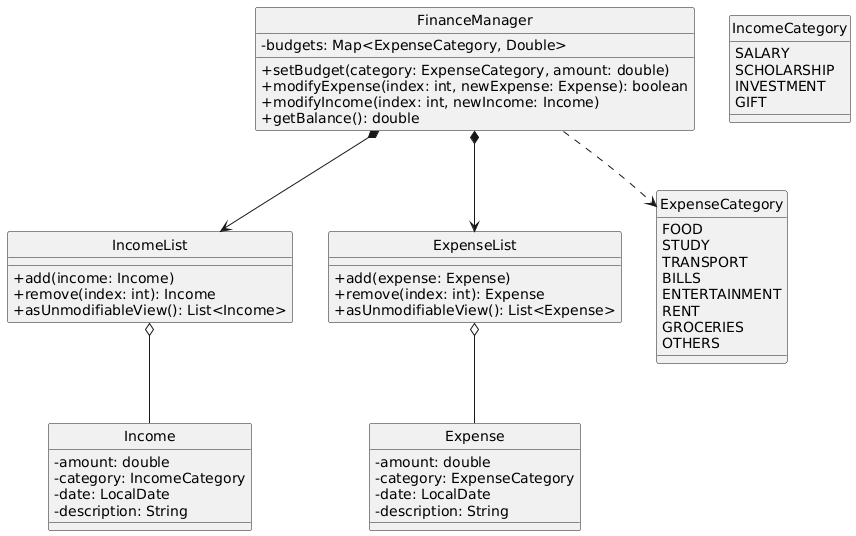
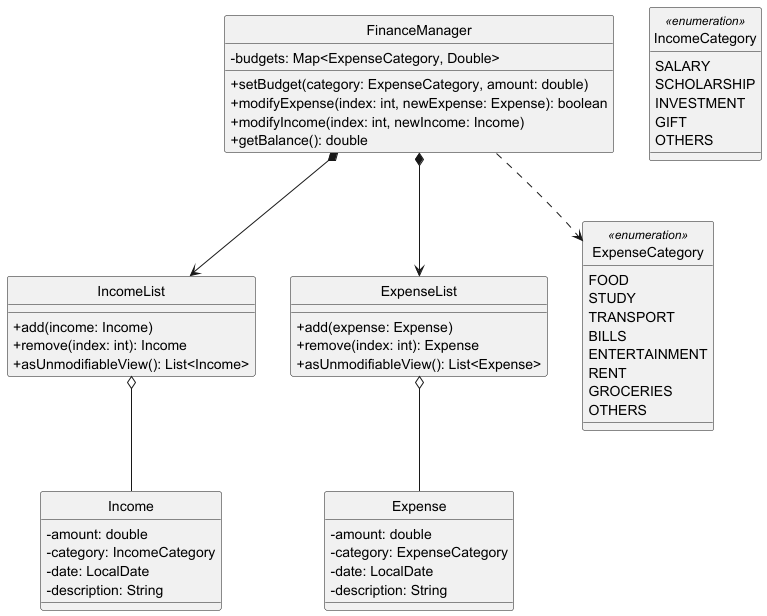
Correct category inconsistencies, add enum indicator in diagram

diff --git a/docs/UserGuide.md b/docs/UserGuide.md
@@ -23,7 +23,7 @@ Tip: Type `help` after launch to see every available command.
 - Commands are **case-sensitive**. Use lowercase as shown in this guide (e.g., `add-expense`, not `Add-Expense`).
 - Parameters use prefixes:
     - `a/` for amount (non-negative number, decimals allowed).
-    - `c/` for category (single word or phrase without leading/trailing spaces).
+    - `c/` for category (must be from the valid list of categories).
     - `d/` for date in `YYYY-MM-DD` format.
     - `des/` for an optional description. If omitted, the entry has no description.
 - Compulsory parameters can be input in **any order**. For example, if `add-expense` requires the `a/<amount>`, `c/<category>` and `d/<YYYY-MM-DD>` parameters, it can be input in any order (e.g. `c/<category>`, `a/<amount>`, `d/<YYYY-MM-DD>`).
@@ -135,7 +135,7 @@ Creates a new expense. Expenses are automatically sorted so the newest date appe
   ```
   Expense added:
     Amount: 12.50
-    Category: Food
+    Category: FOOD
     Date: 2025-10-08
     Description: Lunch with friends
   ```
@@ -165,7 +165,7 @@ Records income that contributes to your balance.
   ```
   Income added:
     Amount: 3200.00
-    Category: Salary
+    Category: SALARY
     Date: 2025-10-01
     Description: October salary
   ```
@@ -192,13 +192,13 @@ Shows every expense in reverse chronological order (newest first) with numbered 
   #1
   Date: 2025-10-11
   Amount: $42.00
-  Category: Groceries
+  Category: GROCERIES
   Description: Weekly shop
   --------------------------------------------------
   #2
   Date: 2025-10-08
   Amount: $12.50
-  Category: Food
+  Category: FOOD
   Description: Lunch with friends
   --------------------------------------------------
   ```
@@ -238,13 +238,13 @@ Shows every income in reverse chronological order (newest first) with numbered e
   #1
   Date: 2025-10-15
   Amount: $500.00
-  Category: Freelance
+  Category: SALARY
   Description: Design project
   --------------------------------------------------
   #2
   Date: 2025-10-01
   Amount: $3200.00
-  Category: Salary
+  Category: SALARY
   Description: October salary
   --------------------------------------------------
   ```
@@ -260,7 +260,7 @@ For example, `list-income d/2025-12` lists only incomes recorded in **December 2
 - **Sample output:**
 
     ```
-    Incomes for the month 2025-10 (Newest first):
+    Incomes for the month 2025-12 (Newest first):
     --------------------------------------------------
     #1
     Date: 2025-12-01
@@ -294,8 +294,7 @@ For example, `balance d/2025-01` displays the total income, expenses, and balanc
 - **Sample output:**
 
     ```
-    Overall Balance for the month 2025-01:
-    Overall Balance: 3158.00
+    Overall Balance for the month 2025-01: 3158.00
     Total Income: 3200.00
     Total Expense: 42.00
     ```
@@ -311,7 +310,7 @@ Removes an expense by its 1-based index as seen in the most recent `list-expense
   ```
   Expense deleted (index 2):
     Amount: 12.50
-    Category: Food
+    Category: FOOD
     Date: 2025-10-08
     Description: Lunch with friends
   ```
@@ -329,7 +328,7 @@ Removes an expense by its 1-based index as seen in the most recent `list-income`
   ```
   Income deleted (index 1):
     Amount: 3200.00
-    Category: Salary
+    Category: SALARY
     Date: 2025-10-01
     Description: October salary
   ```
@@ -345,7 +344,7 @@ Updates an existing expense entry at a specified index. The new entry replaces t
   ```
   Expense at index 1 modified to:
     Amount: 1300.00
-    Category: Rent
+    Category: RENT
     Date: 2024-01-01
     Description: Monthly rent increased
   ```
@@ -366,7 +365,7 @@ Updates an existing income entry at a specified index. The new entry replaces th
   ```
   Income at index 3 modified to:
     Amount: 250.00
-    Category: Salary
+    Category: SALARY
     Date: 2024-01-15
     Description: Extra performance bonus
   ```
@@ -548,8 +547,8 @@ A: No. FinTrack currently requires ISO format `YYYY-MM-DD`.
 **Q: How can I review transactions for a specific month?**  
 A: Use the optional month filter on incomes (`list-income d/<YYYY-MM>`).
 
-**Q: Can categories or descriptions include spaces?**  
-A: Yes. Everything following a prefix is read until the next prefix, so `c/Office Supplies` and `des/New laptop bag` both work.
+**Q: Can descriptions include spaces?**  
+A: Yes. However, descriptions must be the last argument declared, as `des/` will consume the rest of the line.
 
 **Q: Why was my date rejected even though it looks correct?**  
 A: Ensure the date is valid on the calendar and in `YYYY-MM-DD` format.
@@ -574,6 +573,7 @@ A: Ensure the date is valid on the calendar and in `YYYY-MM-DD` format.
 | `summary-expense`          | `summary-expense`                                                        | `summary-expense`                                            |
 | `summary-income`           | `summary-income`                                                         | `summary-income`                                             |
 | `tips`                     | `tips`                                                                   | `tips`                                                       |
+| `export`                   | `export <filepath>`                                                      | `export financial_data.csv`                                  |
 | `bye`                      | `bye`                                                                    | `bye`                                                        |
 
 Stay tuned to the project repository for upcoming enhancements such as persistent storage and advanced summaries.

diff --git a/docs/DeveloperGuide.md b/docs/DeveloperGuide.md
@@ -180,7 +180,7 @@ Below is a high-level overview of how the `FinanceManager` component looks like:
 
 `IncomeList` and `ExpenseList` demonstrate aggregation (has-a) relationships with their respective `Income` and `Expense` objects. This weaker form of association indicates that while the lists serve as containers for these financial transaction objects, the individual `Income` and `Expense` instances can potentially exist independently of their containing lists. This design choice provides flexibility in how transaction objects are managed and referenced throughout the application.
 
-Several dependency and association relationships connect the classes to their respective category enumerations. `FinanceManager` depends on the `ExpenseCategory` enumeration for budget management operations, while `Income` and `Expense` each have direct associations with their corresponding category enumerations, `IncomeCategory` and `ExpenseCategory` respectively. These associations ensure that every financial transaction is properly categorised, with `Income` objects linked to categories like `SALARY, SCHOLARSHIP, INVESTMENT, and GIFT`, while `Expense` objects are associated with categories such as `FOOD, TRANSPORT, BILLS, and ENTERTAINMENT`. This categorical structure provides the foundation for organising and analysing financial data within the system.
+Several dependency and association relationships connect the classes to their respective category enumerations. `FinanceManager` depends on the `ExpenseCategory` enumeration for budget management operations, while `Income` and `Expense` each have direct associations with their corresponding category enumerations, `IncomeCategory` and `ExpenseCategory` respectively. These associations ensure that every financial transaction is properly categorised, with `Income` objects linked to categories like `SALARY, SCHOLARSHIP, INVESTMENT, GIFT and OTHERS`, while `Expense` objects are associated with categories such as `FOOD, TRANSPORT, BILLS, and ENTERTAINMENT`. This categorical structure provides the foundation for organising and analysing financial data within the system.
 
 #### How the `FinanceManager` component works:
 1. **State management**  
